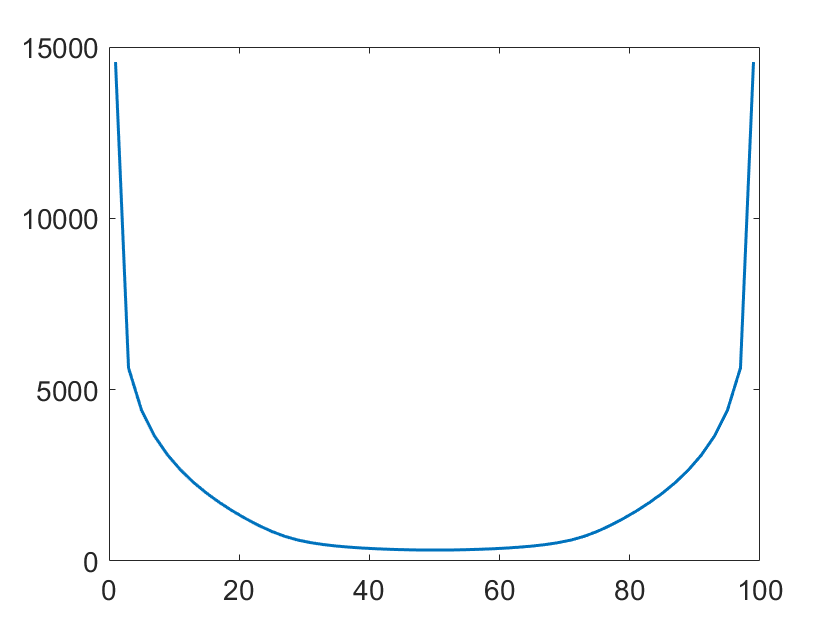
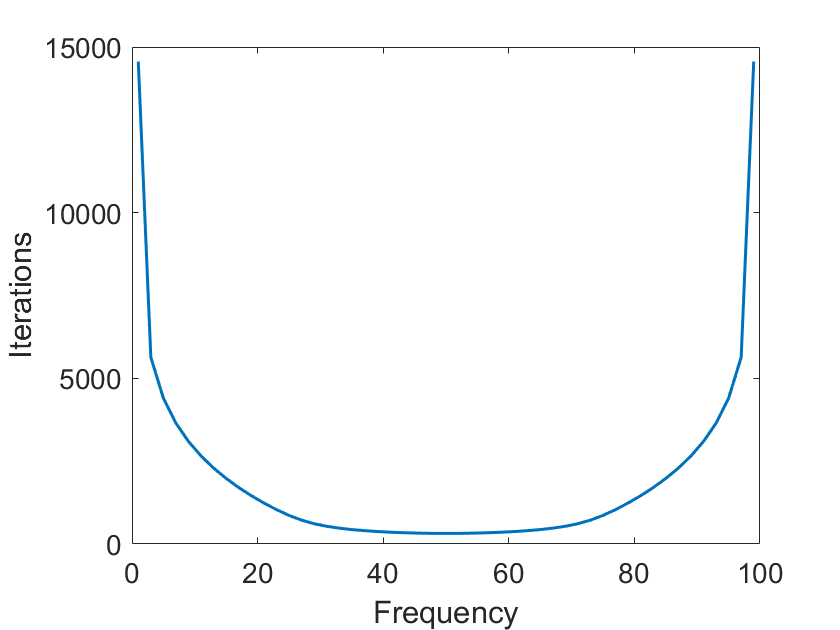
updates

diff --git a/Experiments (chapter 7)/e_independence_of_the_right_side.m b/Experiments (chapter 7)/e_independence_of_the_right_side.m
@@ -9,6 +9,8 @@ l = 4; % number of grid levels
 solver = "J"; % J or GS - Jacobi or Gauss-Seidel solver
 omega = 4/5;
 
+repeat = 5;
+
 % Init matrices 
 A = cell(1, l);  
 for i = 1:l       
@@ -35,7 +37,7 @@ f6 = reshape(f, [], 1);
 f = 1 ./ sqrt((x - 0.7).^2 + (y - 0.3).^2 + (z - 0.5).^2 + 1e-5);
 f7 = reshape(f, [], 1); 
 
-ResI= zeros(7,3);
+ResI= zeros(6,3);
 
 
 %% run test
@@ -44,7 +46,9 @@ ResI= zeros(7,3);
 figure(1);
 
 ff_all = {f2, f3, f4, f5, f6, f7};
-leg = {'f2', 'f3', 'f4', 'f5', 'f6', 'f7'};
+leg = {"f2", "f3", "f4", "f5", "f6", "f7"};
+
+
 
 for index = 1:length(ff_all)
     ff = ff_all{index};
@@ -62,13 +66,14 @@ for index = 1:length(ff_all)
     end
     t = toc(s);
     semilogy(res_norm/res_norm(1)); hold on;
-    ResI(1,:) = [t, iteration, norm(ff - A{l}*u_solution)/norm(ff)];
+    ResI(index,:) = [t, iteration, norm(ff - A{l}*u_solution)/norm(ff)];
 end
 hold off
 legend(leg)
-title('Convergence for varying rhs')
-ylabel('relative residual')
-set(gca,'xticklabel',0:10)
+%title("Convergence for varying rhs")
+xlabel("Iteration")
+ylabel("Relative residual")
+set(gca,"xticklabel",0:10)
 
 
 % relative energy error norm
@@ -103,9 +108,9 @@ end
 
 hold off
 legend(leg)
-title('Convergence for varying rhs')
-ylabel('relative energy error norm')
-set(gca,'xticklabel',0:10)
-
+%title("Convergence for varying rhs")
+xlabel("Iteration")
+ylabel("Relative energy error norm")
+set(gca,"xticklabel",0:10)
 
 return

diff --git a/Figures (chapter 4)/Fig_4_2_4_3_Convergence.m b/Figures (chapter 4)/Fig_4_2_4_3_Convergence.m
@@ -20,6 +20,7 @@ u_8 = f8(jj)';
 
 f = zeros(n+1,1);
 
+
 if solver == "J"
     [x_1,it1,resnorm1,errornorm1] = Jacobi_for_SLE(A,u_1,f,tol,A\u_1);
     [x_2,it2,resnorm2,errornorm2] = Jacobi_for_SLE(A,u_2,f,tol,A\u_2);
@@ -40,20 +41,20 @@ semilogy([1, resnorm8/resnorm8(1)]); hold on
 semilogy([1, resnorm4/resnorm4(1)]); hold on
 semilogy([1, resnorm2/resnorm2(1)]); hold on
 semilogy([1, resnorm1/resnorm1(1)])
-% davame sem jednicku na zacatek, protoze resnorm8/resnorm8(1) zacina az
-% reziduem v prvni iterace
-legend('v_8', 'v_4', 'v_2', 'v_1')
-% title('Relative residual norm')
+legend("v_8", "v_4", "v_2", "v_1")
+ylabel("Relative residual")
+xlabel("Iteration")
+%title("Relative residual norm")
 hold off
-% set(gca,'YScale','lin') %pokud bychom chteli linearni osu y, jako v
-% knizce
+
 
 figure(2);
 semilogy([1, errornorm8/errornorm8(1)]); hold on
 semilogy([1, errornorm4/errornorm4(1)]); hold on
 semilogy([1, errornorm2/errornorm2(1)]); hold on
 semilogy([1, errornorm1/errornorm1(1)])
-legend('v_8', 'v_4', 'v_2', 'v_1')
-% title('Relative error norm')
+legend("v_8", "v_4", "v_2", "v_1")
+ylabel("Relative error")
+xlabel("Iteration")
+% title("Relative error norm")
 hold off
-% set(gca,'YScale','lin')

diff --git a/Figures (chapter 4)/Fig_4_4_Number_of_Iteration.m b/Figures (chapter 4)/Fig_4_4_Number_of_Iteration.m
@@ -20,6 +20,8 @@ end
 set(0, "DefaultLineLinewidth", 1.5)
 set(0, "DefaultAxesFontsize", 14)
 
-plot(1:2:n,iterations(1:2:end))
 
+plot(1:2:n,iterations(1:2:end))
+xlabel("Frequency")
+ylabel("Iterations")
 

diff --git a/Experiments (chapter 7)/e_num_layers_and_iterations.m b/Experiments (chapter 7)/e_num_layers_and_iterations.m
@@ -5,7 +5,7 @@ o = 128; % 3rd dimension
 maxk = 7;
 maxl = 6;
 results = cell(maxk, maxl-1); 
-repetitions = 1;
+repeat = 5;
 
 % Right side
 f = ones(abs((m-1)*(n-1)*(o-1)),1);
